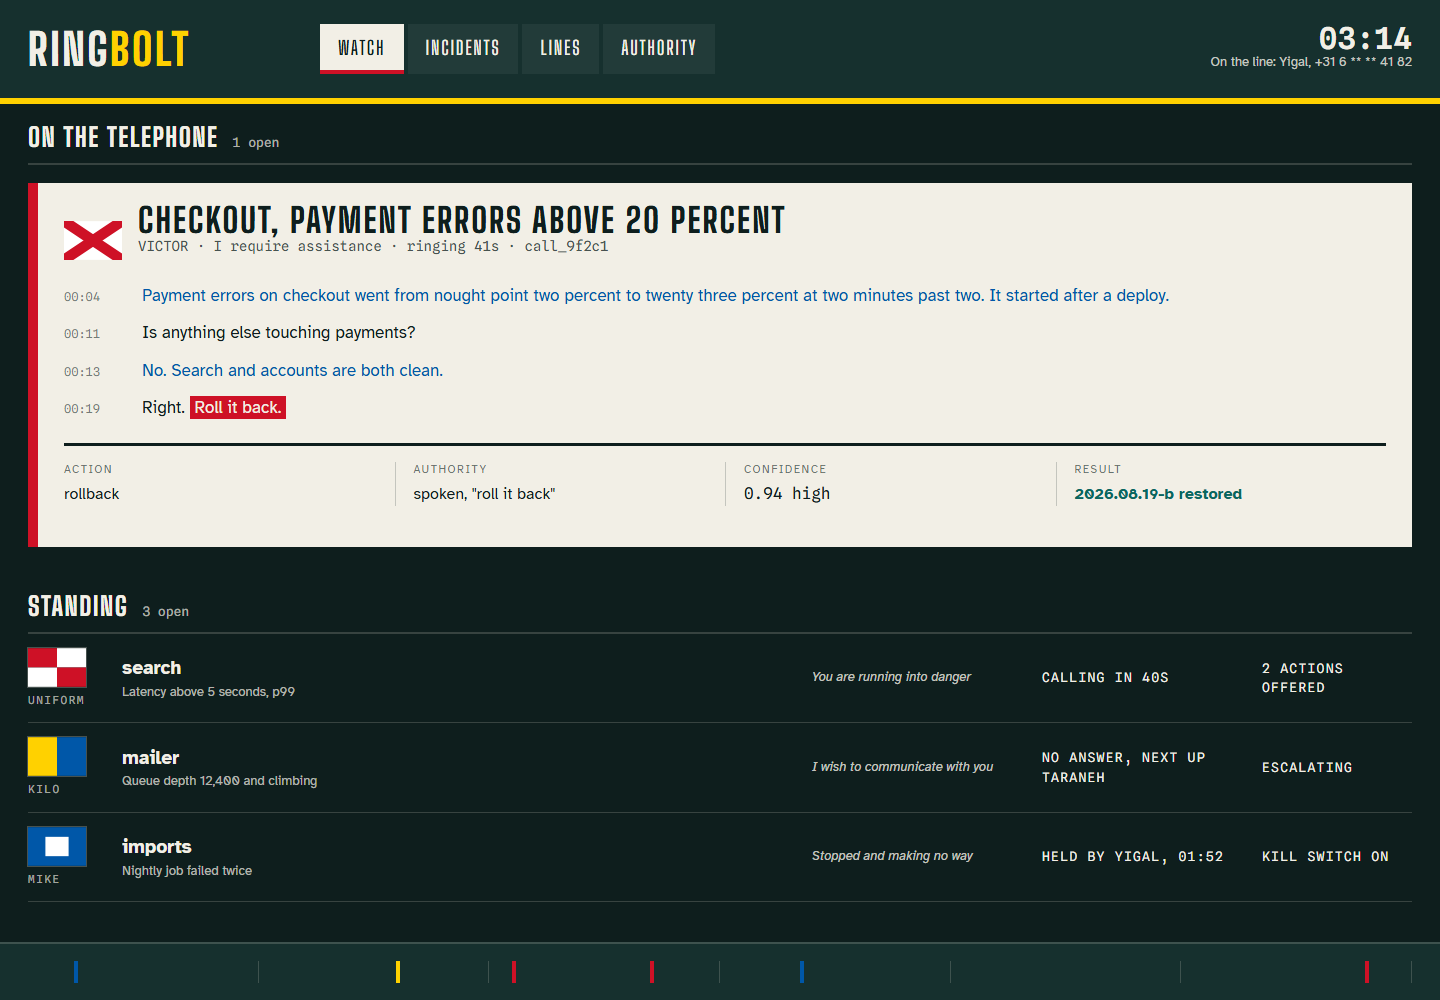
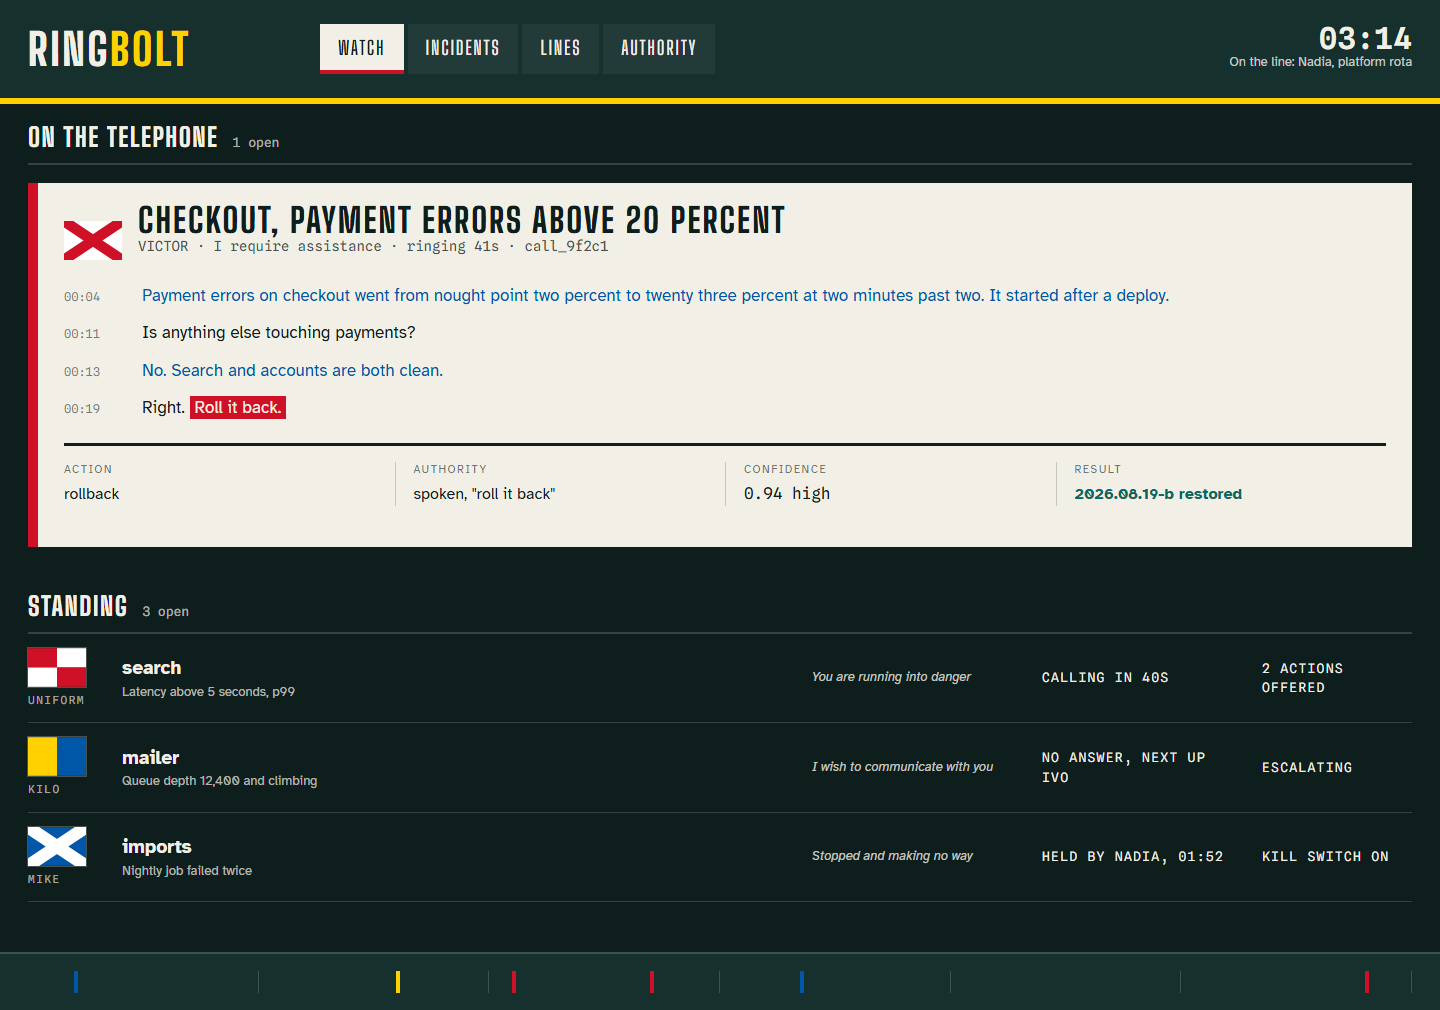
fix: remove personal data and correct two false claims
An adversarial review found these. Fixing the documentation and design faults
here; the code findings are a separate piece of work.

The mockups carried two real first names and a string shaped like a Dutch mobile
number, in three HTML files and baked into all four committed PNGs. Nothing has
been pushed, so this removes them before they can reach a remote. Replaced with
neutral placeholders and no number at all, since a number was carrying no weight
in the design anyway. Verified by re-reading the rendered PNG rather than by
trusting the source edit.

The MIKE flag was drawn as a white rectangle on blue. It is a white saltire on
blue, a diagonal cross reaching all four corners, confirmed against the same
source the direction document cites. That document rests its whole real-media
argument on accurate reproduction, so an inaccurate flag was not cosmetic. The
correction is recorded in the document rather than quietly applied, because the
failure mode is worth naming: the eight flag MEANINGS were verified and the
geometry was not, and standing next to a checked claim made the unchecked one
look checked too.

The stack record overstated what a Durable Object guarantees. It said concurrent
deliveries serialize against one owner, full stop. The documented behaviour is
narrower: the input gate defers events only while one of the object's own storage
operations is in flight, and awaiting anything else lets new events interleave.
[…]

diff --git a/design/mockups/board.html b/design/mockups/board.html
@@ -344,7 +344,7 @@
       <div class="watch">
         <div class="t plate">03:14</div>
         <div class="who mono">
-          line open &middot; yigal &middot; +31 6 ** ** 41 82
+          line open &middot; nadia &middot; platform rota
         </div>
       </div>
     </header>
@@ -447,7 +447,7 @@
             search<span class="why">Latency above 5 seconds, p99</span>
           </div>
           <div class="means">You are running into danger</div>
-          <div class="st mono">Calling Yigal in 40s</div>
+          <div class="st mono">Calling Nadia in 40s</div>
           <div class="st mono">2 offered</div>
         </div>
 
@@ -463,7 +463,7 @@
             mailer<span class="why">Queue depth 12,400 and climbing</span>
           </div>
           <div class="means">I wish to communicate with you</div>
-          <div class="st mono">No answer, next Taraneh</div>
+          <div class="st mono">No answer, next Ivo</div>
           <div class="st mono">Escalating</div>
         </div>
 
@@ -471,7 +471,11 @@
           <div>
             <svg class="flag" viewBox="0 0 60 40" aria-label="Mike">
               <rect width="60" height="40" fill="#14568c" />
-              <rect x="17" y="9" width="26" height="22" fill="#fff" />
+              <path
+                d="M0 0 L60 40 M60 0 L0 40"
+                stroke="#fff"
+                stroke-width="13"
+              />
             </svg>
             <span class="flag-name mono">MIKE</span>
           </div>
@@ -479,7 +483,7 @@
             imports<span class="why">Nightly job failed twice</span>
           </div>
           <div class="means">Stopped and making no way</div>
-          <div class="st mono">Held by Yigal, 01:52</div>
+          <div class="st mono">Held by Nadia, 01:52</div>
           <div class="st mono">Kill switch on</div>
         </div>
       </main>

diff --git a/design/bakeoff/a-signal-code.html b/design/bakeoff/a-signal-code.html
@@ -270,7 +270,7 @@
       </nav>
       <div class="watch">
         <div class="t plate mono">03:14</div>
-        <div class="who">On the line: Yigal, +31 6 ** ** 41 82</div>
+        <div class="who">On the line: Nadia, platform rota</div>
       </div>
     </header>
 
@@ -377,7 +377,7 @@
           <b>mailer</b> <span class="why">Queue depth 12,400 and climbing</span>
         </div>
         <div class="meaning">I wish to communicate with you</div>
-        <div class="state mono">No answer, next up Taraneh</div>
+        <div class="state mono">No answer, next up Ivo</div>
         <div class="state mono">Escalating</div>
       </div>
 
@@ -385,7 +385,7 @@
         <div>
           <svg class="flag" viewBox="0 0 60 40" aria-hidden="true">
             <rect width="60" height="40" fill="#0057a8" />
-            <rect x="18" y="10" width="24" height="20" fill="#fff" />
+            <path d="M0 0 L60 40 M60 0 L0 40" stroke="#fff" stroke-width="13" />
           </svg>
           <span class="code mono">MIKE</span>
         </div>
@@ -393,7 +393,7 @@
           <b>imports</b> <span class="why">Nightly job failed twice</span>
         </div>
         <div class="meaning">Stopped and making no way</div>
-        <div class="state mono">Held by Yigal, 01:52</div>
+        <div class="state mono">Held by Nadia, 01:52</div>
         <div class="state mono">Kill switch on</div>
       </div>
     </main>
@@ -411,3 +411,5 @@
     </footer>
   </body>
 </html>
+
+

diff --git a/design/bakeoff/b-watch-room.html b/design/bakeoff/b-watch-room.html
@@ -342,7 +342,7 @@
       <div class="watch">
         <div class="t plate">03:14</div>
         <div class="who mono">
-          line open &middot; yigal &middot; +31 6 ** ** 41 82
+          line open &middot; nadia &middot; platform rota
         </div>
       </div>
     </header>
@@ -422,7 +422,7 @@
           <div class="svc">
             search<span class="why">Latency above 5 seconds, p99</span>
           </div>
-          <div class="who-called">Calling Yigal in 40s</div>
+          <div class="who-called">Calling Nadia in 40s</div>
           <div class="decision">Awaiting</div>
           <div class="astate">2 offered</div>
         </div>
@@ -433,7 +433,7 @@
           <div class="svc">
             mailer<span class="why">Queue depth 12,400 and climbing</span>
           </div>
-          <div class="who-called">No answer, next Taraneh</div>
+          <div class="who-called">No answer, next Ivo</div>
           <div class="decision">Escalating</div>
           <div class="astate">2 offered</div>
         </div>
@@ -442,7 +442,7 @@
           <div class="svc">
             imports<span class="why">Nightly job failed twice</span>
           </div>
-          <div class="who-called">Held by Yigal 01:52</div>
+          <div class="who-called">Held by Nadia 01:52</div>
           <div class="decision">Hold</div>
           <div class="astate">Kill switch on</div>
         </div>
@@ -482,3 +482,4 @@
     </footer>
   </body>
 </html>
+

diff --git a/docs/adr/0001-stack.md b/docs/adr/0001-stack.md
@@ -51,11 +51,29 @@ the login to justify server rendering.
 
 ### Cloudflare Workers with Durable Objects and D1 (chosen)
 
-Durable Objects are the exact primitive properties 3 and 4 describe. One Durable Object per
-incident is a single-threaded actor that owns that incident's state machine, so concurrent webhooks
-serialize against one owner instead of racing rows. Its `alarm` API is a durable timer that fires
-at a specific time, survives restarts, and needs no sweeper. It can hold the dashboard's WebSocket
-connections and push state as the call progresses.
+Durable Objects give property 3 outright and property 4 conditionally. One Durable Object per
+incident is a single-threaded actor that owns that incident's state machine. Its `alarm` API is a
+durable timer that fires at a specific time, survives restarts, and needs no sweeper. It can hold
+the dashboard's WebSocket connections and push state as the call progresses.
+
+**Correction, 2026-08-21, recorded in place rather than edited away, because the original claim is
+what the stack choice was argued on.** This paragraph first said that concurrent webhooks
+"serialize against one owner instead of racing rows", full stop. That overstates the guarantee and
+a review caught it. Cloudflare's documented behaviour is narrower: the input gate defers incoming
+events while one of the object's **own storage** operations is in flight, and awaiting anything
+else opens the gate so new events interleave. Their guidance is explicit that once you await,
+other events can interleave, and that `blockConcurrencyWhile()` is the tool for a critical section
+that awaits an external call.
+
+Ringbolt's object awaits D1 and the call provider, never `ctx.storage`, so today it gets no
+automatic serialization at all. The single-owner property is still available and is still the
+reason to be here, but it has to be taken deliberately: hold the read-then-write critical sections
+inside `blockConcurrencyWhile()`, or move live incident state into the object's own SQLite storage
+so the gate applies, or add a uniqueness constraint in D1 as a backstop. Until one of those is
+done, two terminal deliveries for the same incident can both pass the state check and run an
+action twice, which on this product means a production change applied twice.
+
+This is tracked as the first correctness item of phase 2 and is not fixed as of this writing.
 
 Verified on Cloudflare's own documentation on 2026-08-21, because the free tier is load-bearing
 here: Durable Objects are available on the Workers free plan with the SQLite storage backend, and

diff --git a/design/ART-DIRECTION.md b/design/ART-DIRECTION.md
@@ -37,6 +37,14 @@ Flag meanings verified 2026-08-21 against the International Code of Signals as d
 Wikipedia's international maritime signal flags article. The five colours of the system are black,
 blue, red, yellow, and white.
 
+**Correction, same day.** The eight meanings above were checked. The flag GEOMETRY was not, and one
+was drawn wrong: MIKE shipped as a white rectangle on blue when it is a white saltire, a diagonal
+cross reaching all four corners, on blue. Fixed in the mockup and re-rendered. Recording it because
+this document rests its whole real-media argument on accurate reproduction, and because the failure
+is the ordinary one: a verified claim standing next to an unverified one made the second look
+checked. Every flag drawn from here on gets its geometry verified individually, not inherited from
+the fact that its meaning was.
+
 ## Type
 
 Self-host all three as WOFF2. No runtime dependency on a font CDN.

diff --git a/README.md b/README.md
@@ -52,6 +52,12 @@ requested schema, the named action was actually offered on that call, and, for a
 destructive, the responder said the confirmation phrase. Any one of those failing is a refusal
 with a reason, recorded, not an error swallowed.
 
+One honest limit on that floor, worth stating rather than leaving implied. The confidence number
+CALL-E returns is its confidence that the task was completed, not its confidence in the specific
+decision it extracted. So the floor filters calls that went badly, and it does not measure how
+sure the transcription is about the word the responder actually said. The schema check, the
+offered-action check and the spoken confirmation phrase are what guard the decision itself.
+
 ## Running it
 
 ```bash
